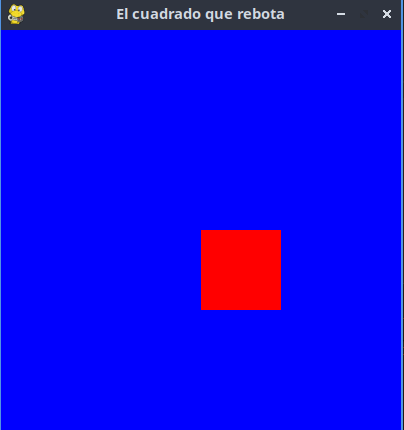
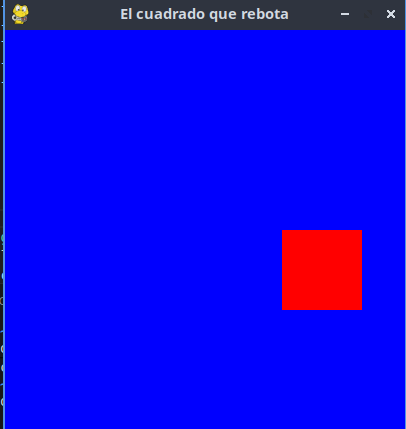
lindo

diff --git a/cuadrado.py b/cuadrado.py
@@ -1,67 +1,58 @@
 # libreria
 import pygame
 import sys
-# COLOR
-azul = (0, 0, 255)
-rojo = (255, 0, 0)
-#---------------------
-#
-# Clase CUADRADO
-#
-#---------------------
-class CUADRADO(pygame.sprite.Sprite):
 
-    def __init__(self):
+
+# clores
+COLOR_AZUL = (0, 0, 255)
+COLOR_ROJO = (255, 0, 0)
+
+#-------------
+# clase CUADRADO
+#--------------
+
+class CUADRADO (pygame.sprite.Sprite) :
+    def __init__ (self):
         pygame.sprite.Sprite.__init__(self)
-        self.image = pygame.Surface((80, 80))
-        self.image.fill(rojo)
-        self.rect = self.image.get_rect()
+        self.image = pygame. Surface( (80, 80))
+        self.image.fill (COLOR_ROJO)
+        self. rect = self. image.get_rect()
         self.rect.x = 200
         self.rect.y = 200
+        self. DESPLAZAMIENTO = 3
+    def update (self) :
+        self. rect.x += self. DESPLAZAMIENTO
 
-        self.DESPLAZAMIENTO = 3
+        if self. rect.x >= 320:
+            self.rect.x = 320
+            self. DESPLAZAMIENTO = -1
+        elif self.rect.x<= 0:
+            self.rect.x = 0
+            self. DESPLAZAMIENTO = 1
 
-def update(self):
-    self.rect.x += self.DESPLAZAMIENTO
-    
-    if self.rect.x >= 320:
-        self.rect.x = 320
-        self.DESPLAZAMIENTO = -3
-    elif self.rect.x <= 0:
-        self.rect.x = 0
-        self.DESPLAZAMIENTO = 3
-
-# -------------
-#
+#--------------
 # Código
-#
-# -------------
-pygame.init()
+#--------------
+
+pygame.init ()
 screen = pygame.display.set_mode((400, 400))
 background = pygame.Surface(screen.get_size())
-background.fill(azul)  
-screen.blit(background, (0, 0))
-
+background. fill (COLOR_AZUL)
+screen.blit (background, (0, 0))
 pygame.display.set_caption("El cuadrado que rebota")
-
-
 reloj = pygame.time.Clock()
-
 XX = 300
 DESPLAZAMIENTO = 3
-
 all_sprites = pygame.sprite.Group()
-cuadrado = CUADRADO()
-all_sprites.add(cuadrado)
-
+cuadrado = CUADRADO ()
+all_sprites. add (cuadrado)
 while 1:
 
-    for event in pygame.event.get():
+    for event in pygame.event.get ():
         if event.type == pygame.QUIT:
-            sys.exit()
-
-    all_sprites.clear(screen, background)
-    all_sprites.update()
+            sys.exit ()
+    all_sprites. clear(screen, background)
+    all_sprites. update()
     all_sprites.draw(screen)
 
     pygame.display.flip()